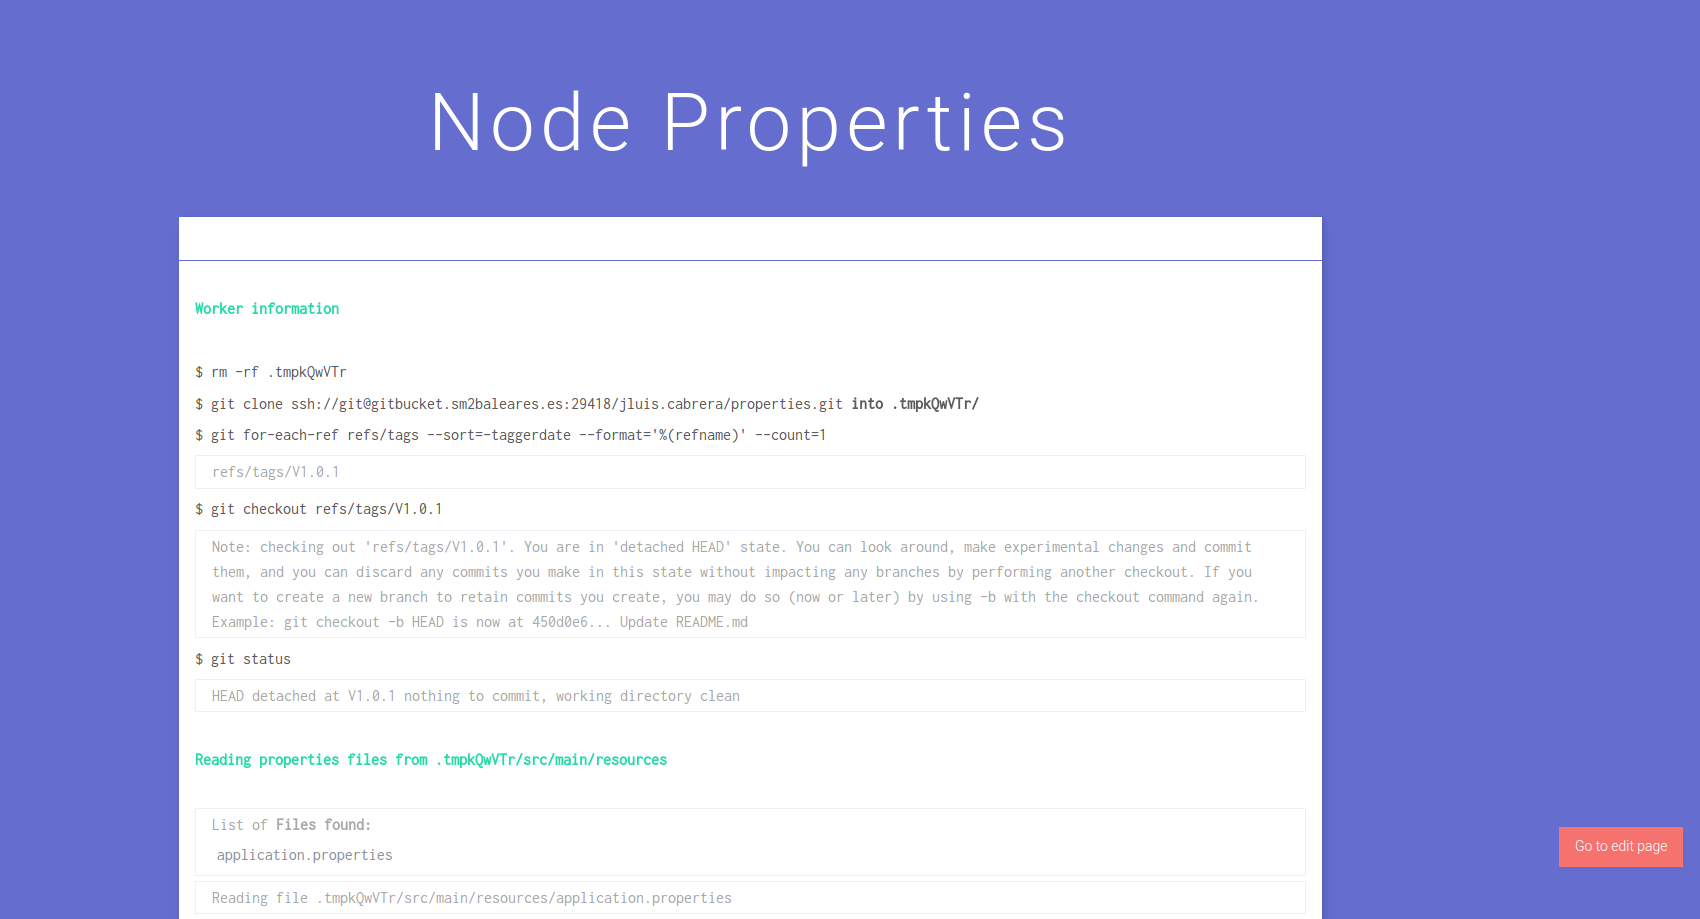
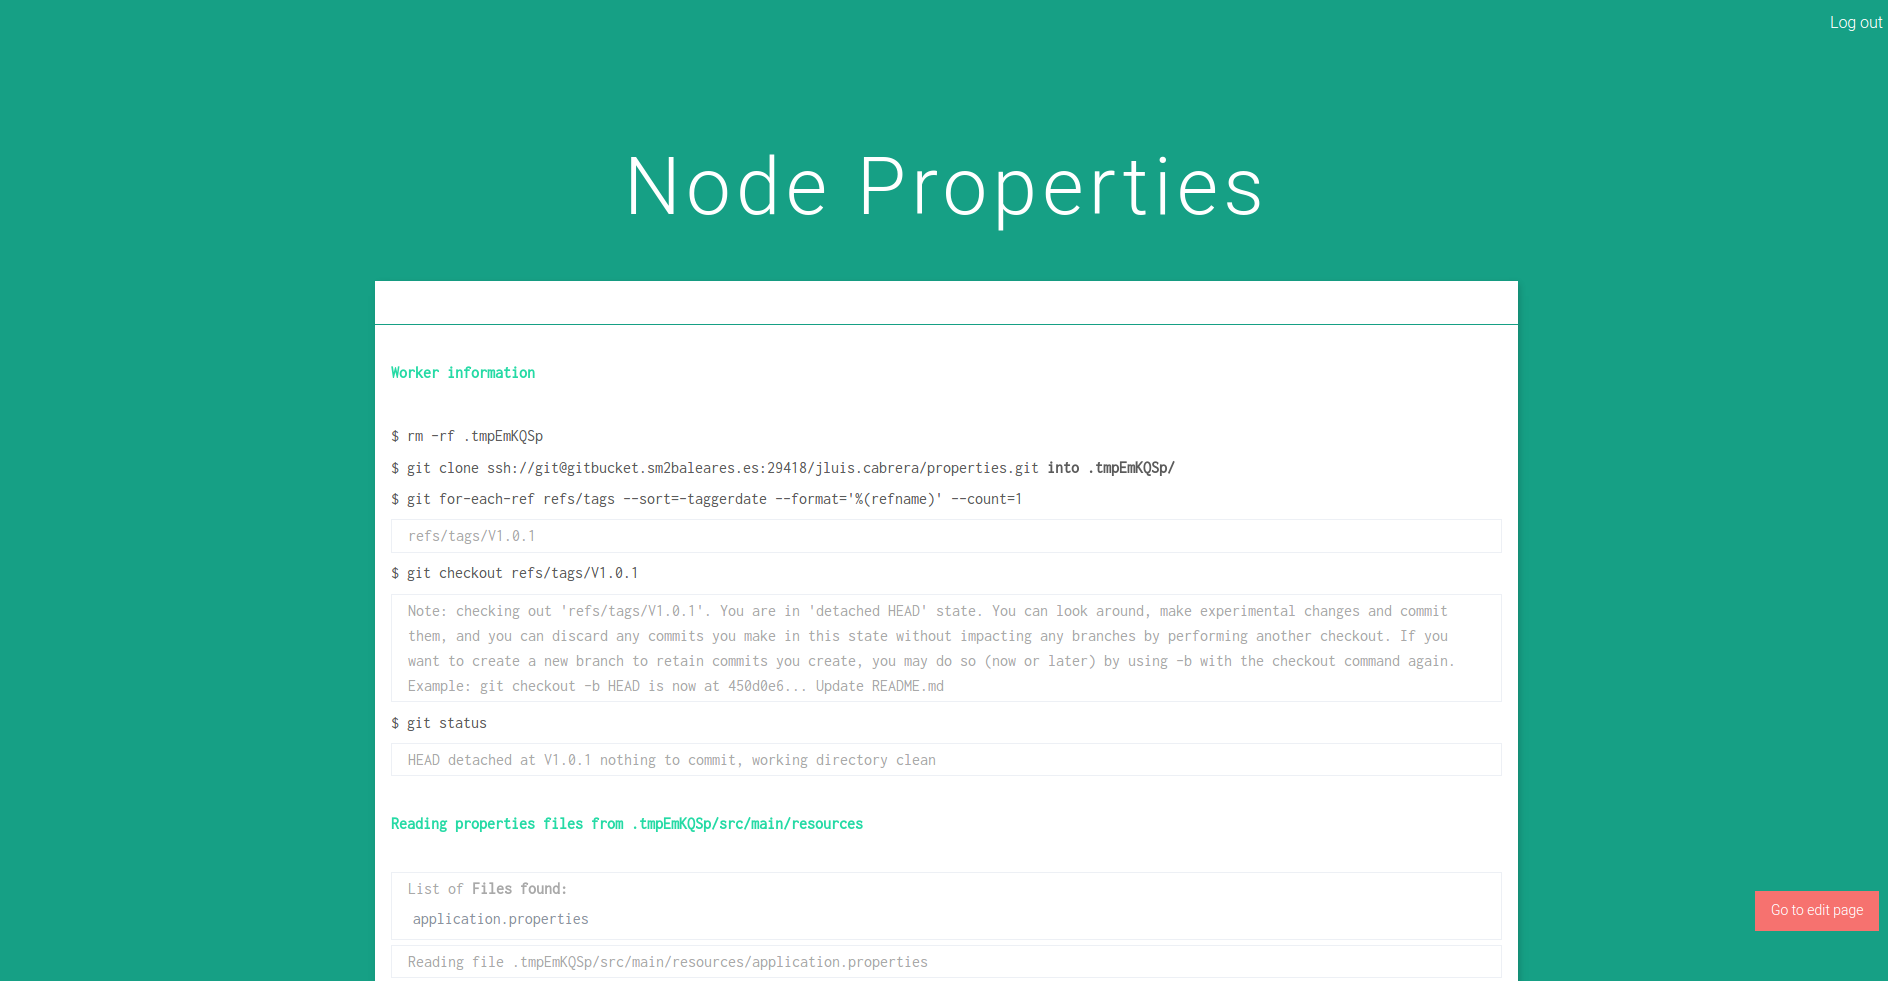
update styles

diff --git a/public/sass/partials/edit.scss b/public/sass/partials/edit.scss
@@ -44,7 +44,7 @@
       padding: 0 .4em;
     }
     &.edit__panel--new {
-      background-color: lighten($col-bg, 28%);
+      background-color: lighten($col-bg, 50%);
     }
     &__key {
       font-size: 1.2em;

diff --git a/public/sass/partials/_variables.scss b/public/sass/partials/_variables.scss
@@ -14,6 +14,6 @@ monospace;
 // loading
 $offset: 187;
 $duration: 1.4s;
-$col-bg:#656dce;
+$col-bg:#16a085;
 $col-text: $panel-bg;
 $shadow: 2px 2px 10px -1px rgba(0, 0, 0, 0.2);
